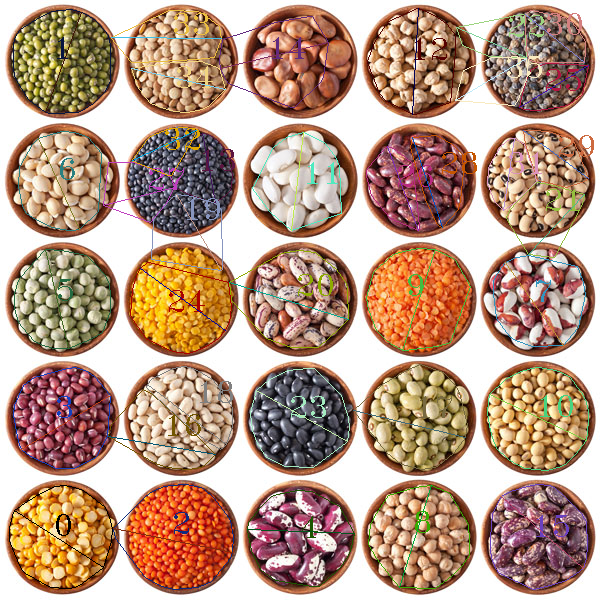
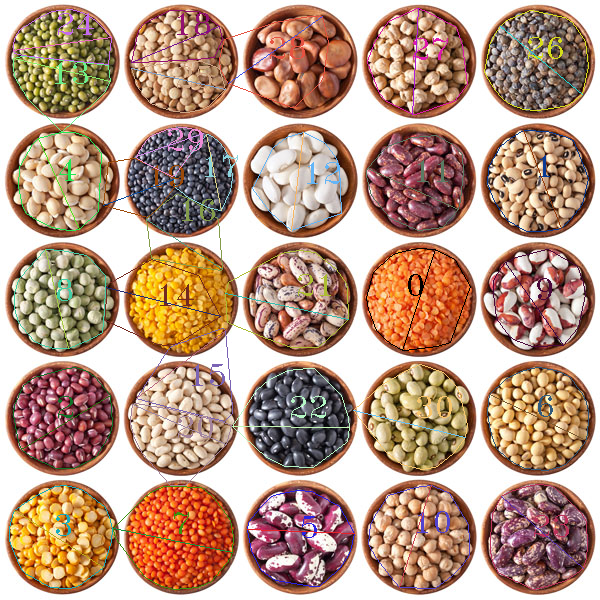
final commit

diff --git a/main.py b/main.py
@@ -17,8 +17,8 @@ for file in files:
     print(f'{file}')
     image_name = os.path.splitext(os.path.basename(file))[0]
     results.append(cluster_image_with_lib(f'{file}',k_iteration_index_quant=5, k_max=100, display_optimal_k=True))
-    # results.append(cluster_image_implemented(f'{file}', 3,random_mode=False))
-    # results.append(cluster_image_implemented(f'{file}', 3,random_mode=True))
+    results.append(cluster_image_implemented(f'{file}', 3,random_mode=False))
+    results.append(cluster_image_implemented(f'{file}', 3,random_mode=True))
     
 # Open the CSV file for writing
 with open(filename, 'a', newline='') as csvfile:

diff --git a/clustering.tex b/clustering.tex
@@ -489,6 +489,4 @@ Here we show that the elbow when we use the elbow method for finding the optimal
 [6]\verb|https://www.investopedia.com/terms/c/central_limit_theorem.asp#:~:text=Key%20Takeaways-,The%20central%20limit%20theorem%20(CLT)%20states%20that%20the%20distribution%20of,for%20the%20CLT%20to%20hold.|
 
 
-
-
 \end{document}
